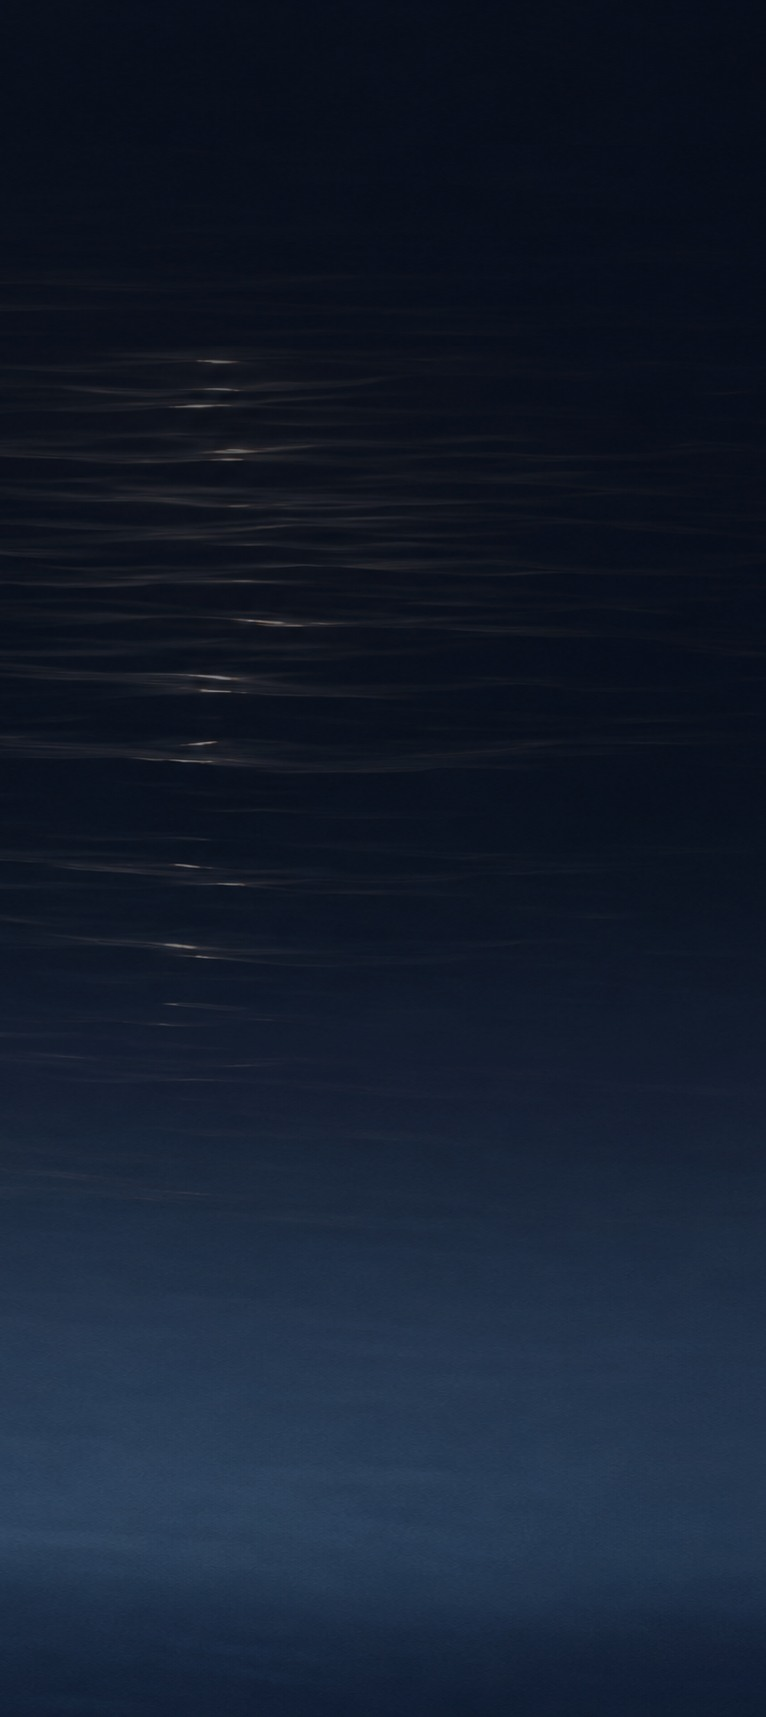
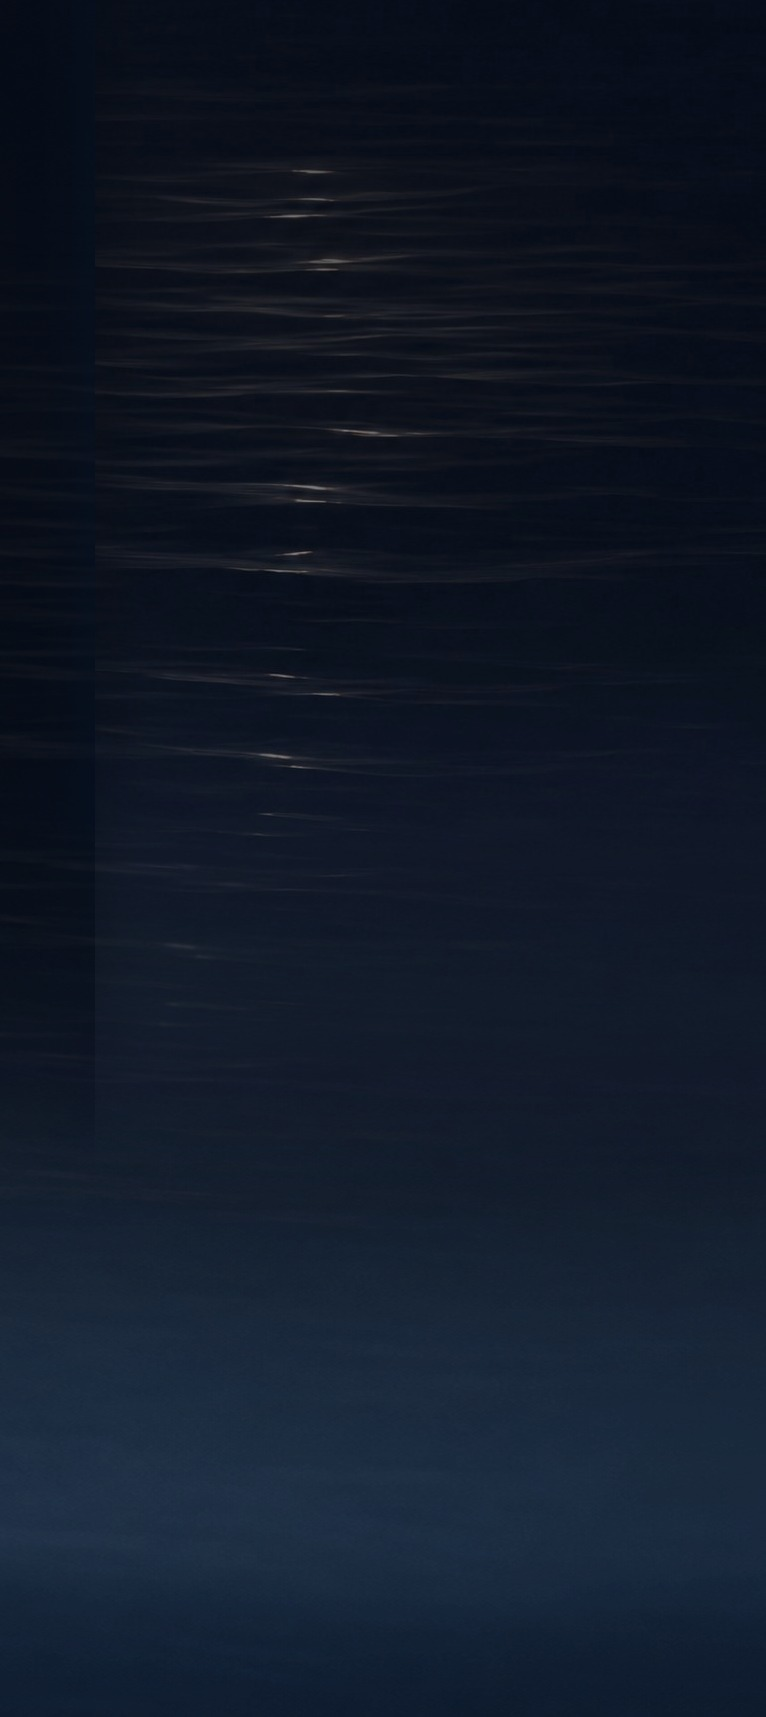
Refine Cancer mobile menu composition

diff --git a/cancer/index.html b/cancer/index.html
@@ -1363,7 +1363,7 @@ footer .foot-inner.in{
   .mobile-menu-panel{
     position:absolute;
     inset:0 auto 0 0;
-    width:min(84vw,360px);
+    width:min(88vw,430px);
     height:100vh;
     height:100dvh;
     overflow-y:auto;
@@ -1386,7 +1386,9 @@ footer .foot-inner.in{
     inset:0;
     z-index:0;
     pointer-events:none;
-    background:linear-gradient(180deg,rgba(3,9,20,.06) 0%,rgba(3,9,20,0) 48%,rgba(28,61,96,.08) 78%,rgba(20,47,77,.14) 100%);
+    background:
+      linear-gradient(90deg,rgba(3,9,20,.28) 0%,rgba(3,9,20,.10) 48%,rgba(3,9,20,0) 78%),
+      linear-gradient(180deg,rgba(3,9,20,.06) 0%,rgba(3,9,20,0) 48%,rgba(28,61,96,.08) 78%,rgba(20,47,77,.14) 100%);
   }
 
   .mobile-menu-head,
